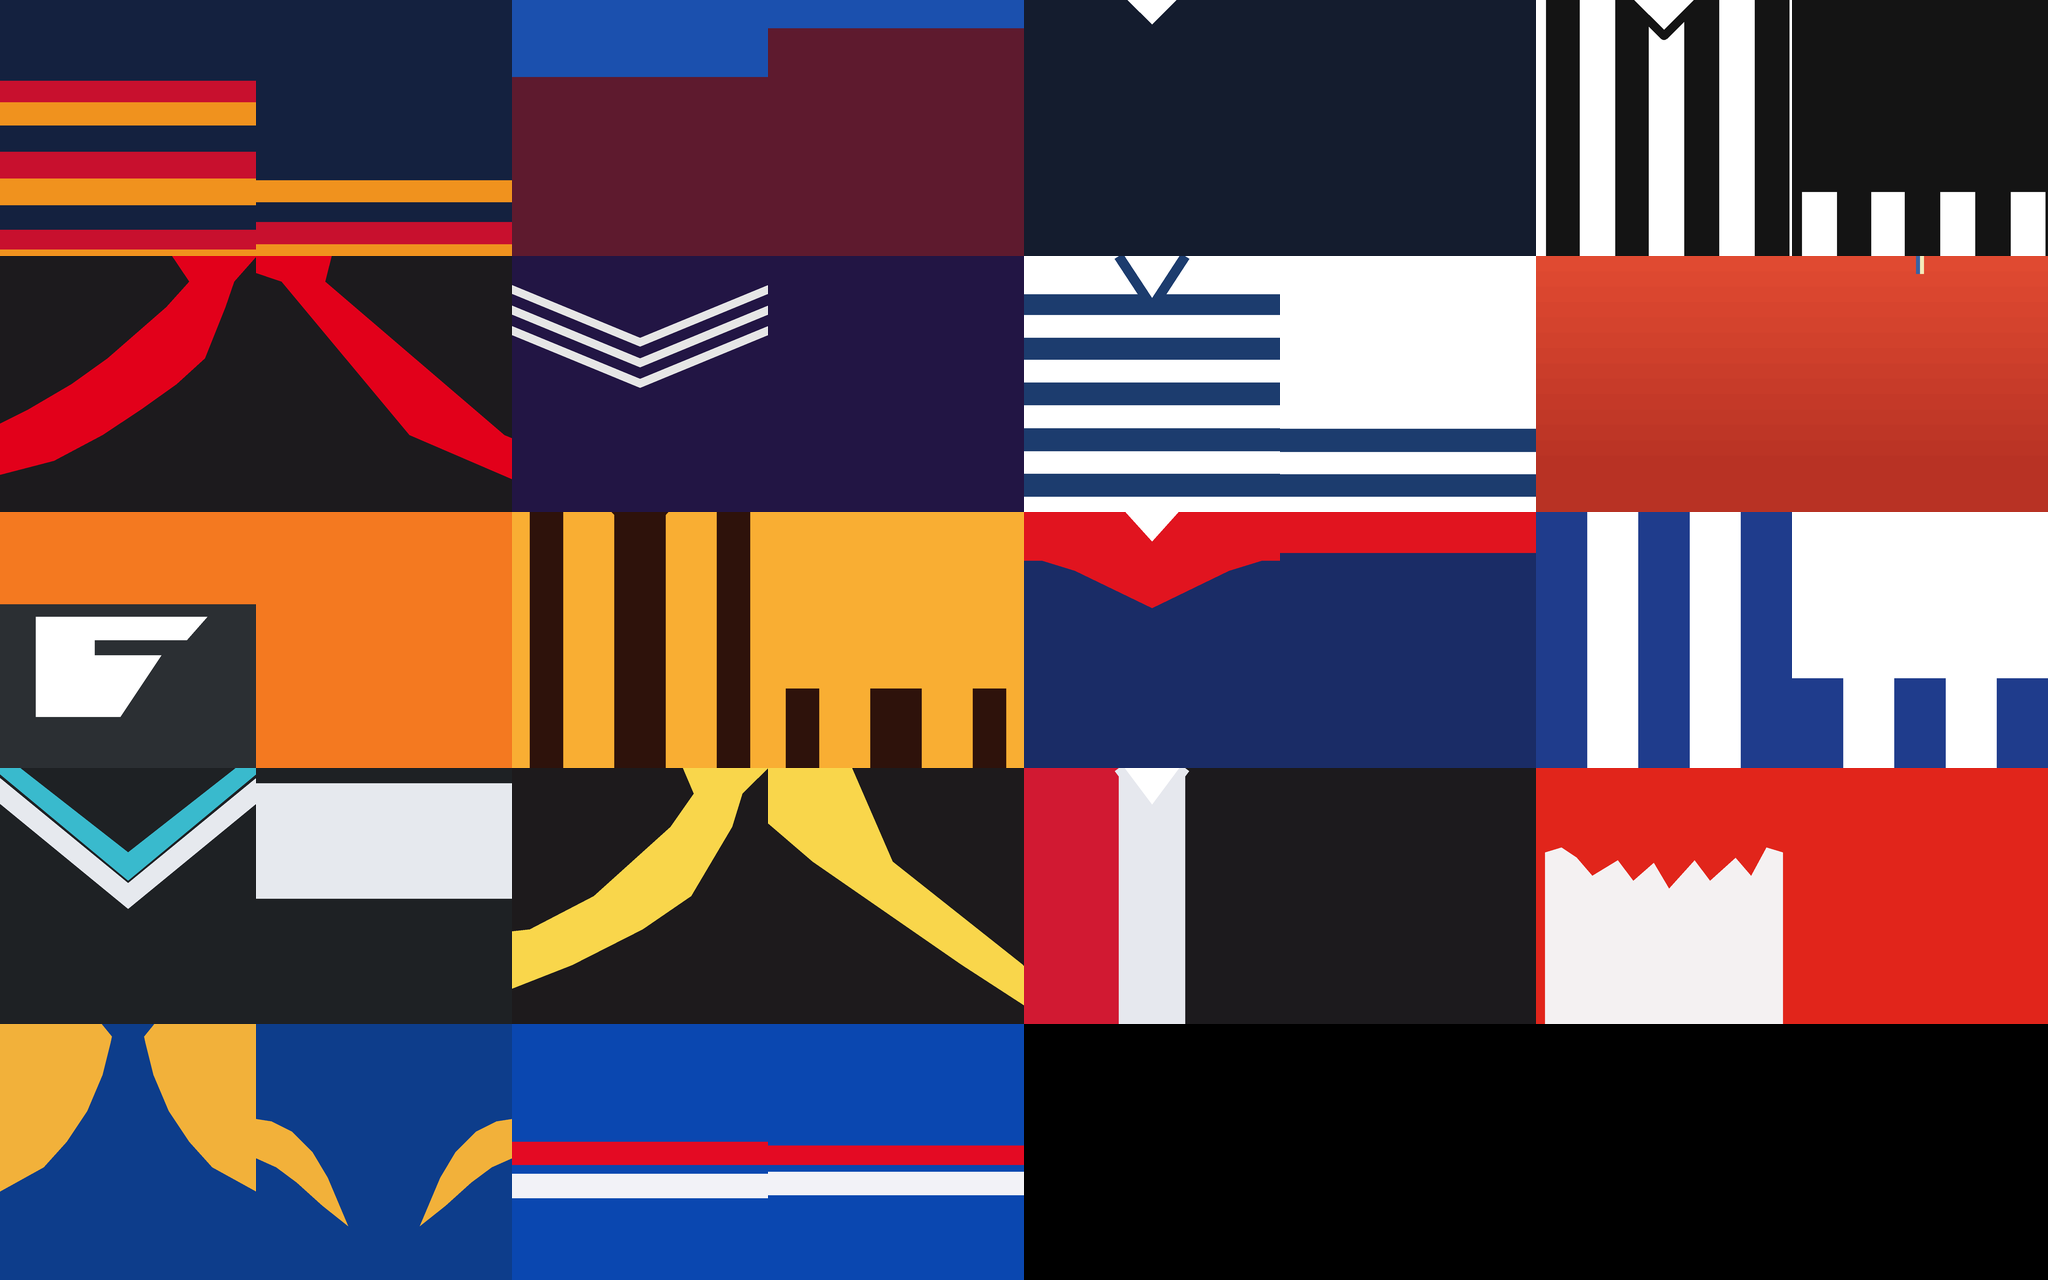
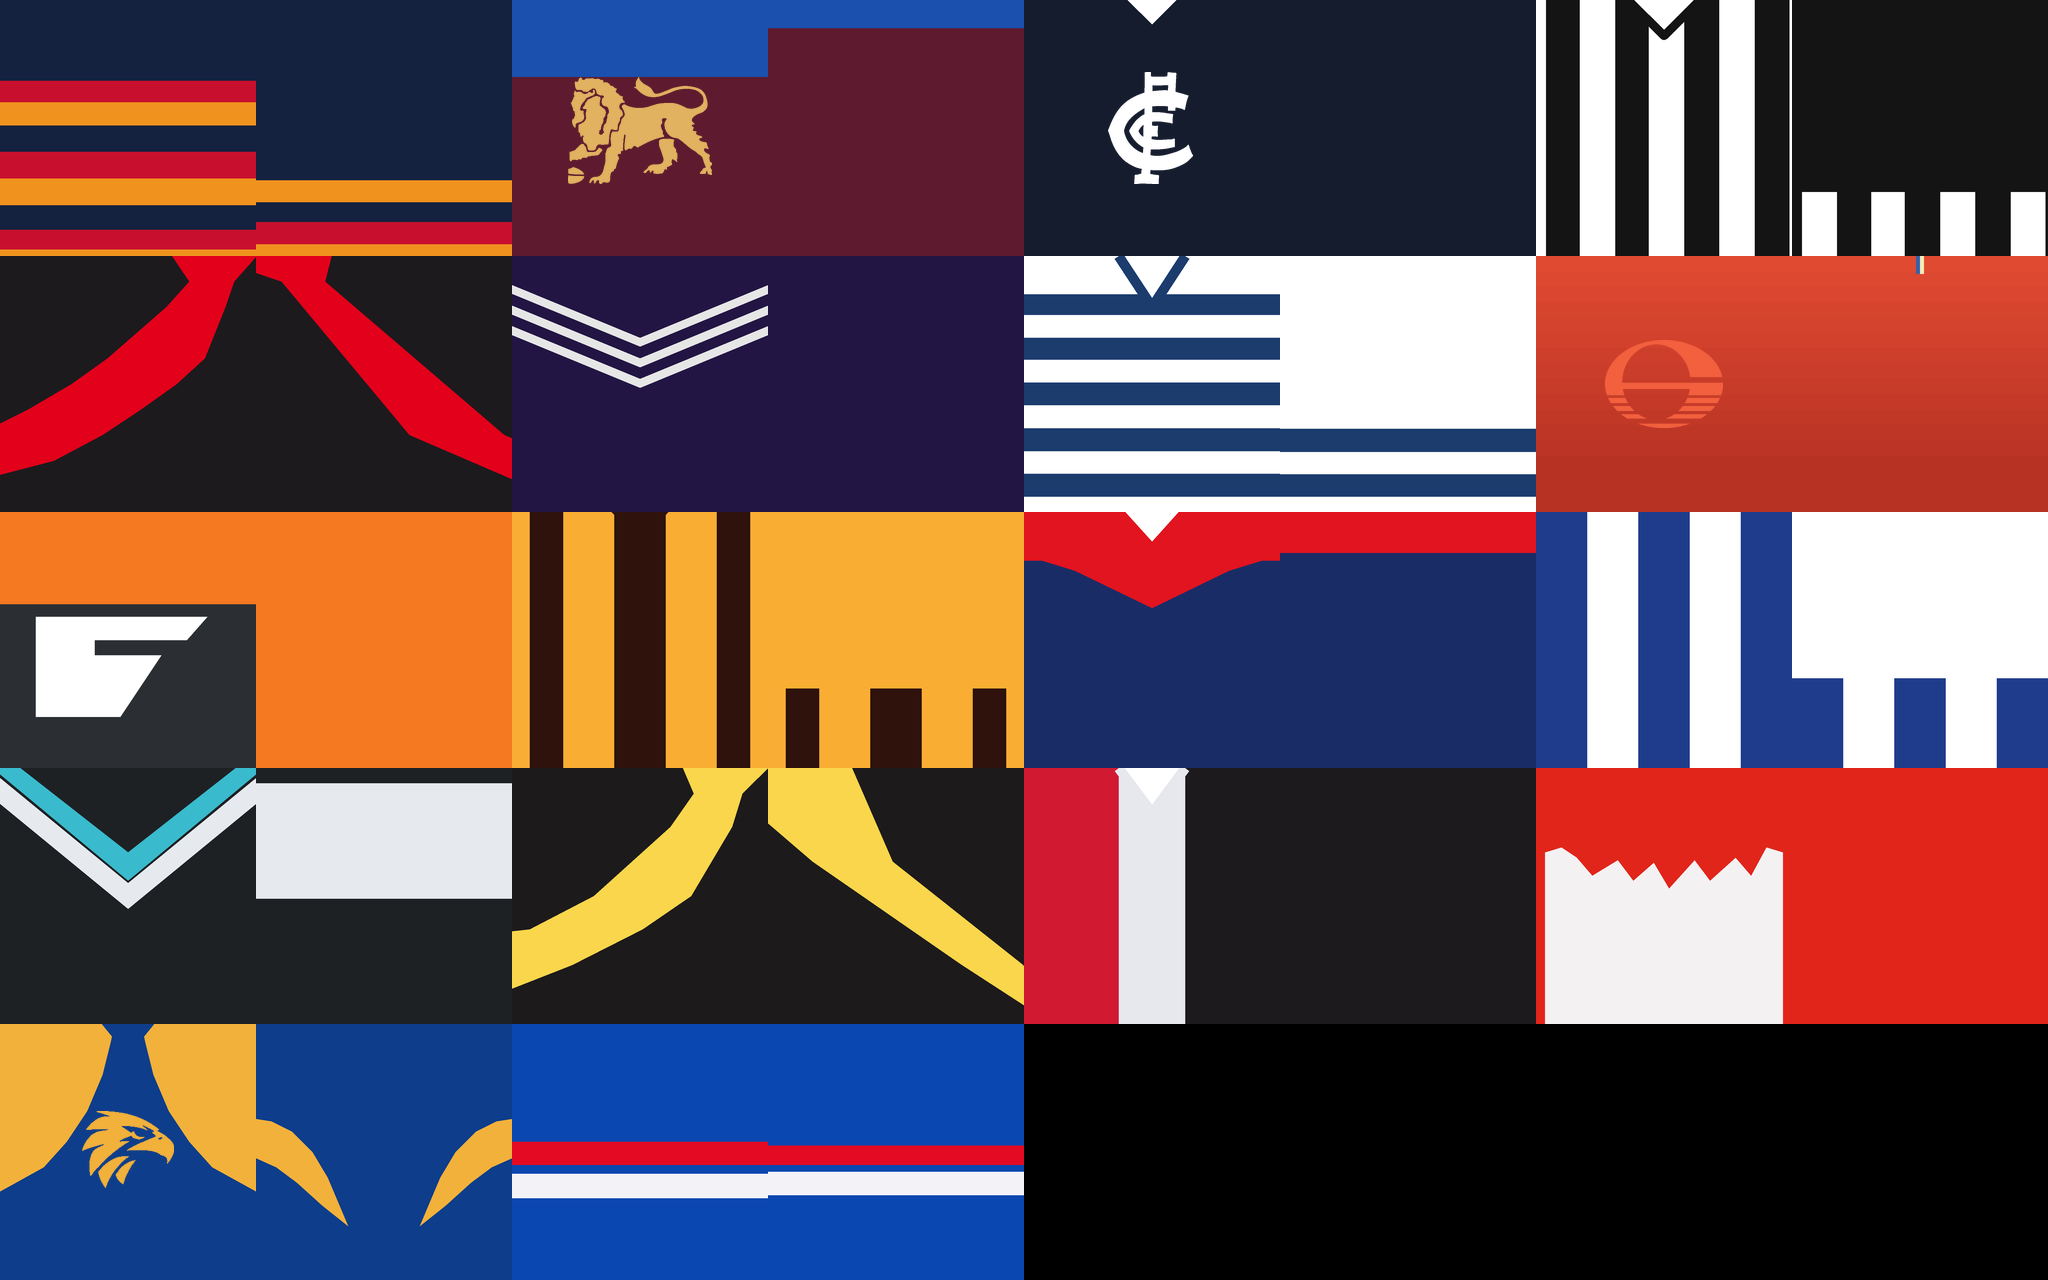
Club marks on the 3D guernsey: the lion, CFC, the eagle head, the sun
Director 2026-11-17: "Draw all five marks". Each mask is cut from the club's
shop photo (the Suns' tonal sun is redrawn from its measured shapes) and
stamped in one colour by the new kits_today mark op. The Giants' G was
already drawn.

diff --git a/tools/kits/kits_today.py b/tools/kits/kits_today.py
@@ -17,8 +17,15 @@ edges, where the mesh puts its neck and armholes:
     collar C [w]        the binding round the neck, w cm wide (default 2)
     armholes C [w]      the bindings round both armholes, w cm wide (default 2)
 
-Like kits.txt: shapes and colours only, never sponsors, maker or league logos, or the club
-emblem (director 2026-11-13: "Leave them off").
+One more op is drawn after the others:
+
+    mark C NAME x0 y0 x1 y1   tools/kits/marks/NAME.png (white = the mark), in colour C,
+                              stretched into that box
+
+Shapes and colours only, never sponsors, maker or league logos (director 2026-11-13: "Leave them
+off"). The club marks that are part of the guernsey's own design (the Lions' lion, Carlton's
+monogram, the Eagles' head, the Suns' sun) are drawn: director 2026-11-17, "Draw all five marks".
+Each mask is cut from the club's shop photo (the Suns' sun is redrawn from its measured shapes).
 """
 import csv
 import math
@@ -59,17 +66,33 @@ def parse(path, clubs):
     return kits
 
 
+def draw(ops, cols, marks_dir):
+    """The side's picture: kit_atlas's ops, then each mark stamped on top."""
+    im = kit_atlas.draw_side([o for o in ops if o.split()[0] != "mark"], cols)
+    for op in ops:
+        t = op.split()
+        if t[0] != "mark":
+            continue
+        c, name = kit_atlas.colour(t[1], cols), t[2]
+        x0, y0, x1, y1 = [round(float(v) * SIDE) for v in t[3:7]]
+        mask = Image.open(os.path.join(marks_dir, name + ".png")).convert("L")
+        mask = mask.resize((x1 - x0, y1 - y0), Image.LANCZOS)
+        im.paste(Image.new("RGB", mask.size, c), (x0, y0), mask)
+    return im
+
+
 def main():
     root = sys.argv[1] if len(sys.argv) > 1 else os.path.join(os.path.dirname(__file__), "..", "..")
     out = sys.argv[2] if len(sys.argv) > 2 else None
     kits = parse(os.path.join(root, "tools", "kits", "kits_today.txt"), kit_atlas.club_colours(root))
     kit_atlas.SIDE = SIDE
+    marks = os.path.join(root, "tools", "kits", "marks")
     rows = math.ceil(len(kits) / PER_ROW)
     atlas = Image.new("RGB", (PER_ROW * SIDE * 2, max(1, rows) * SIDE), "#000000")
     for i, k in enumerate(kits):
         x, y = (i % PER_ROW) * SIDE * 2, (i // PER_ROW) * SIDE
-        atlas.paste(kit_atlas.draw_side(k["front"], k["cols"]), (x, y))
-        atlas.paste(kit_atlas.draw_side(k["back"], k["cols"]), (x + SIDE, y))
+        atlas.paste(draw(k["front"], k["cols"], marks), (x, y))
+        atlas.paste(draw(k["back"], k["cols"], marks), (x + SIDE, y))
     atlas.save(os.path.join(out or os.path.join(root, "assets", "oval3d"), "kits_today.png"), optimize=True)
     with open(os.path.join(out or os.path.join(root, "data"), "kits_today.csv"), "w", encoding="utf-8", newline="") as fh:
         w = csv.writer(fh, lineterminator="\n")
